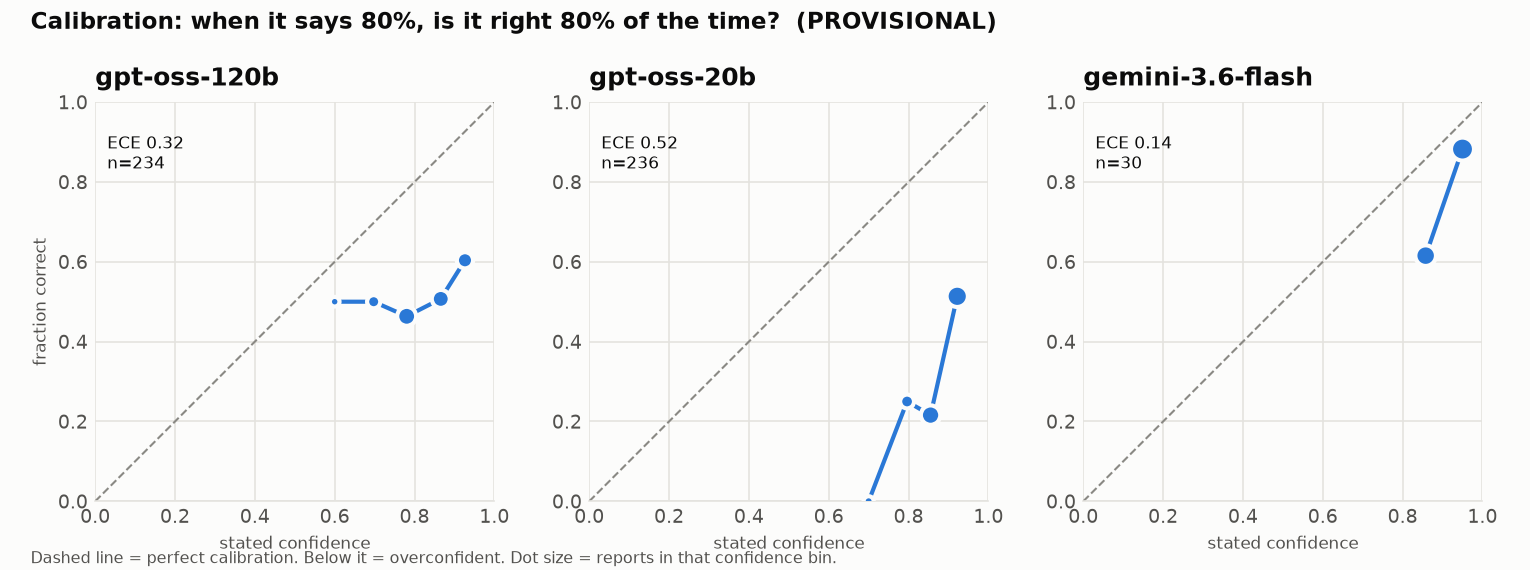
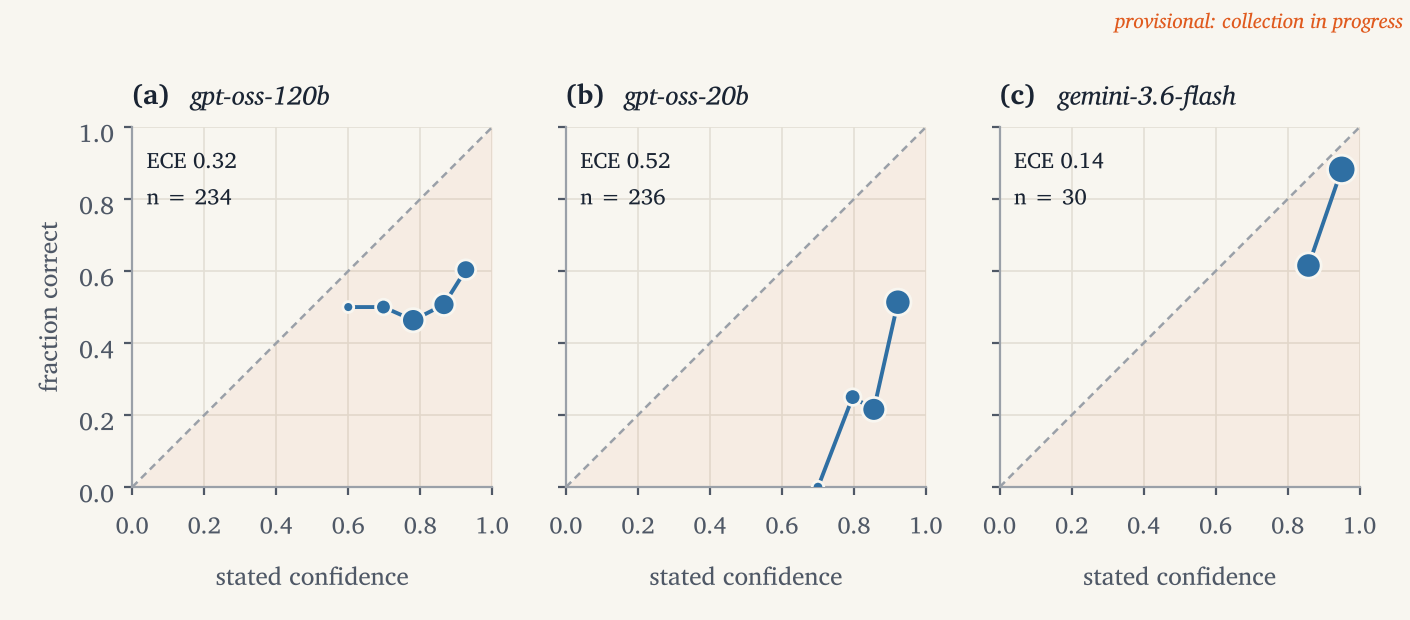
Treat provider JSON-mode rejections as the model's schema failures
Groq returns HTTP 400 json_validate_failed (with the model's output in failed_generation)
when a reply is not valid JSON; gpt-oss-120b did this 6 times, writing "confidence":0. nine.
These were logged as provider errors, which left the jobs pending forever and would have
silently excluded the reports the model handles worst. They now go through the normal
schema-failure path: error fed back, one retry, then a refusal scored as wrong. The 6 earlier
records are counted separately in the report, not as outages.

Also regenerates results and figures with the amended Gemini plan and the new figure style.

Claude-Session: https://claude.ai/code/session_01HBaDkMBkwCGSuqHP8BzUyu

diff --git a/src/asrs_eval/providers.py b/src/asrs_eval/providers.py
@@ -69,6 +69,16 @@ class Provider:
                 latency = time.perf_counter() - t0
                 if r.status_code == 200:
                     return self._parse(r.json(), latency, attempt)
+                rejected = self._rejected_generation(r)
+                if rejected is not None:
+                    # The model DID answer, but its output was not valid JSON and the provider's
+                    # JSON mode refused to pass it through. That is the model's schema failure,
+                    # not an outage: hand back what it wrote so validation rejects it and the
+                    # agent's retry-then-refusal rule applies. Token usage is not reported here.
+                    return Reply(text=rejected, model=self.model, fingerprint=None,
+                                 prompt_tokens=0, completion_tokens=0, reasoning_tokens=0,
+                                 latency_s=latency, attempts=attempt,
+                                 raw={"rejected_by_provider_json_mode": True})
                 err = f"HTTP {r.status_code}: {r.text[:300]}"
                 if r.status_code not in RETRY_STATUS:
                     raise ProviderError(err, attempt)
@@ -83,6 +93,20 @@ class Provider:
                 delay *= 2
         raise ProviderError(f"gave up after {self.max_attempts} attempts; last: {err}",
                             self.max_attempts)
+
+    @staticmethod
+    def _rejected_generation(r: httpx.Response) -> str | None:
+        """Groq returns HTTP 400 code json_validate_failed, with the model's raw output in
+        failed_generation, when JSON mode rejects a reply. Returns that output, else None."""
+        if r.status_code != 400:
+            return None
+        try:
+            e = r.json().get("error", {})
+        except ValueError:
+            return None
+        if e.get("code") != "json_validate_failed":
+            return None
+        return str(e.get("failed_generation") or "")
 
     def _parse(self, j: dict, latency: float, attempts: int) -> Reply:
         choice = j["choices"][0]["message"]

diff --git a/tests/test_agent.py b/tests/test_agent.py
@@ -108,3 +108,41 @@ def test_prompt_hash_differs_with_and_without_retrieval():
     a = agent.classify(1, "n", FakeProvider([GOOD]))
     b = agent.classify(1, "n", FakeProvider([GOOD]), retriever=R())
     assert a.prompt_hash != b.prompt_hash and b.retrieved_acns == [7]
+
+
+# --- provider: JSON-mode rejections are the model's schema failures -------------------
+
+def _provider_with(responses):
+    import httpx
+    from asrs_eval.providers import Provider
+    queue = list(responses)
+
+    def handler(request):
+        status, body = queue.pop(0)
+        return httpx.Response(status, json=body)
+
+    client = httpx.Client(base_url="https://x", transport=httpx.MockTransport(handler))
+    return Provider("groq", "m", client=client, max_attempts=1)
+
+
+REJECTED = (400, {"error": {"code": "json_validate_failed", "message": "Failed to generate JSON",
+                            "failed_generation": '{"primary_problem":"Human Factors","confidence":0. nine,"reason":"x"}'}})
+OK = (200, {"model": "m", "choices": [{"message": {"content": GOOD}}],
+            "usage": {"prompt_tokens": 50, "completion_tokens": 10}})
+
+
+def test_json_mode_rejection_is_retried_with_feedback_not_an_outage():
+    r = agent.classify(1, "narrative", _provider_with([REJECTED, OK]))
+    assert r.status == "ok_after_retry" and r.schema_failures == 1
+    assert "0. nine" in r.raw_replies[0]
+
+
+def test_json_mode_rejection_twice_is_a_refusal():
+    r = agent.classify(1, "narrative", _provider_with([REJECTED, REJECTED]))
+    assert r.status == "refusal" and r.prediction is None and r.schema_failures == 2
+
+
+def test_other_400s_are_still_provider_errors():
+    bad = (400, {"error": {"code": "model_not_found", "message": "no such model"}})
+    r = agent.classify(1, "narrative", _provider_with([bad]))
+    assert r.status == "provider_error"

diff --git a/src/asrs_eval/report.py b/src/asrs_eval/report.py
@@ -161,9 +161,15 @@ def build(cfg: dict, df: pd.DataFrame, traces: pd.DataFrame, plan: list[dict],
         if mt.empty:
             out["models"][name] = r
             continue
+        # Before 2026-11-10 a provider JSON-mode rejection (the model's own invalid JSON) was
+        # logged as a provider error; those jobs were re-run under the schema-failure rule.
+        # Count them apart so they do not inflate the outage figure.
+        err = mt["error"].fillna("") if "error" in mt else pd.Series("", index=mt.index)
+        legacy_rej = (mt.status == "provider_error") & err.str.contains("json_validate_failed")
         r["reliability"] = {
             "calls": int(len(mt)),
-            "provider_error_rate": float((mt.status == "provider_error").mean()),
+            "provider_error_rate": float(((mt.status == "provider_error") & ~legacy_rej).mean()),
+            "legacy_json_mode_rejections": int(legacy_rej.sum()),
             "schema_failure_rate": float((md.schema_failures > 0).mean()) if len(md) else None,
             "refusal_rate": float((md.status == "refusal").mean()) if len(md) else None,
         }
